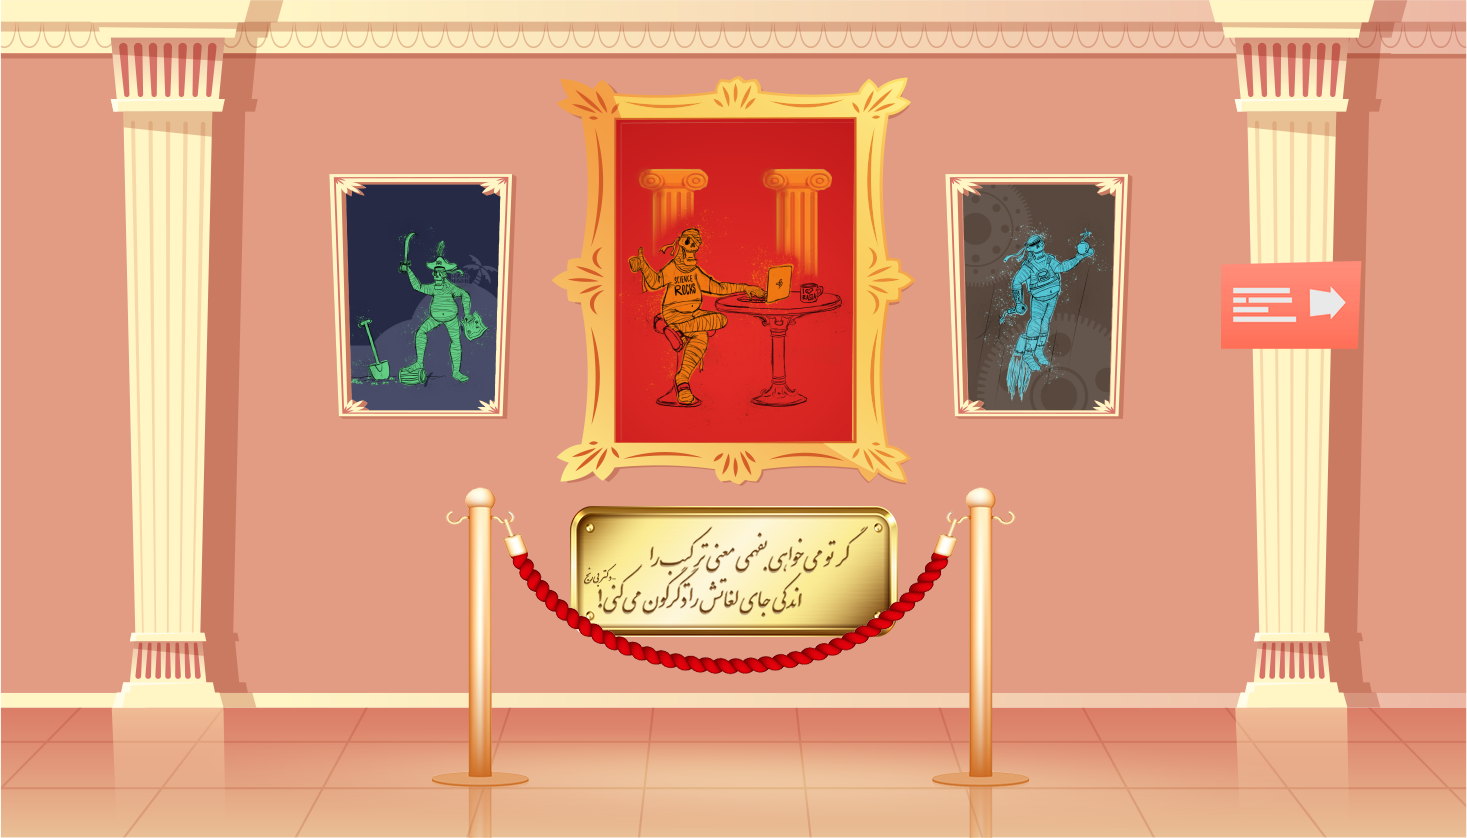
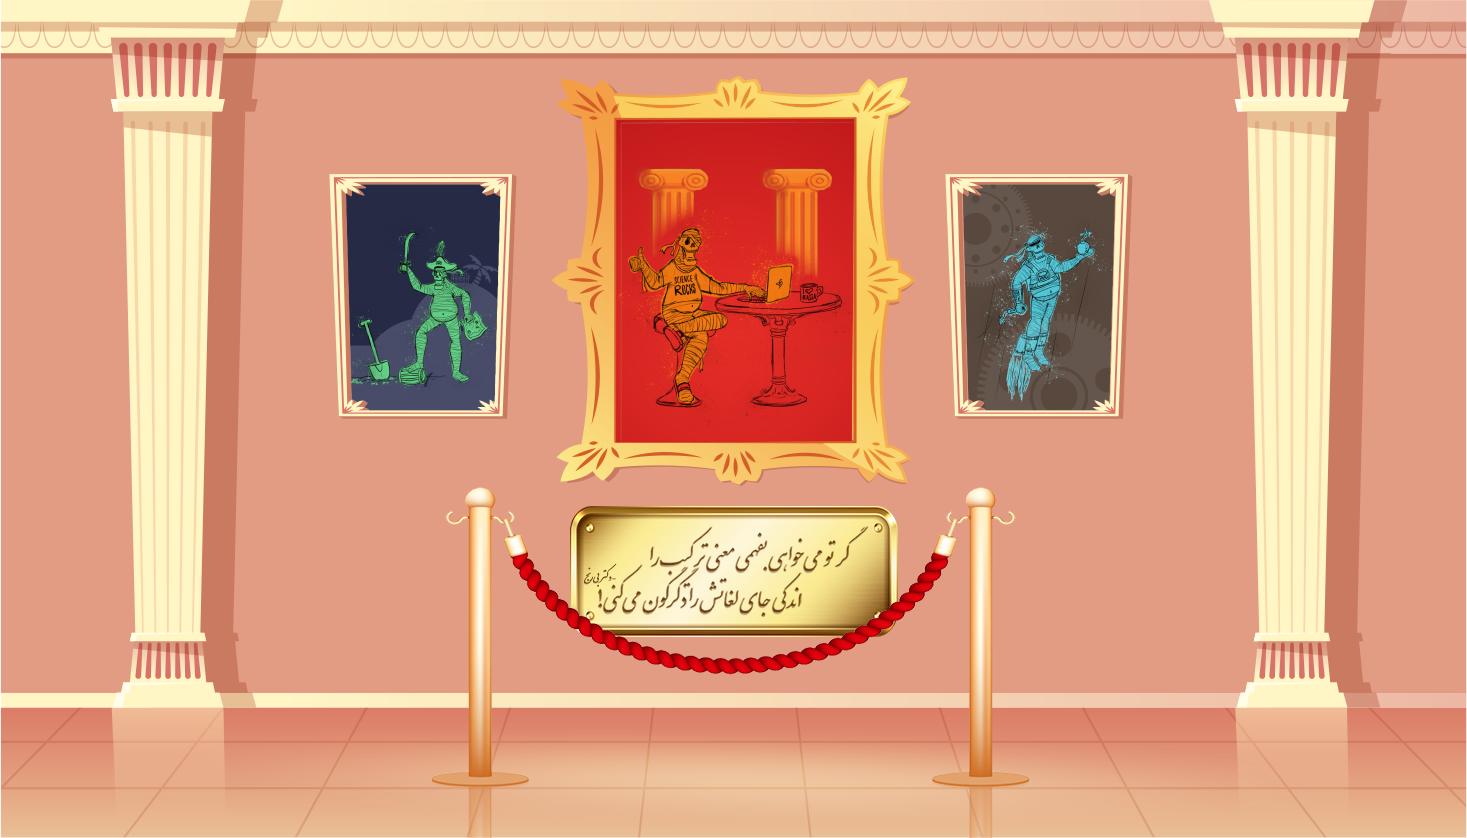
fix rahro arrow

Changed region(s): [[0.8282, 0.3103, 0.9509, 0.4344]]

diff --git a/src/containers/Rooms/Rahro.js b/src/containers/Rooms/Rahro.js
@@ -29,6 +29,22 @@ const Index = () => {
       isHover: false,
       onClick: () => goForward('/folan1'),
     },
+    {
+      urlImage: process.env.PUBLIC_URL + '/Rahro/arrowright.png',
+      id: 1,
+      x: 1290,
+      y: 200,
+      isHover: false,
+      onClick: () => goForward('/folan1'),
+    },
+    {
+      urlImage: process.env.PUBLIC_URL + '/Rahro/arrowleft.png',
+      id: 2,
+      x: 165,
+      y: 200,
+      isHover: false,
+      onClick: () => goForward('/folan1'),
+    }
   ]);
 
   const goForward = (dst) => {
